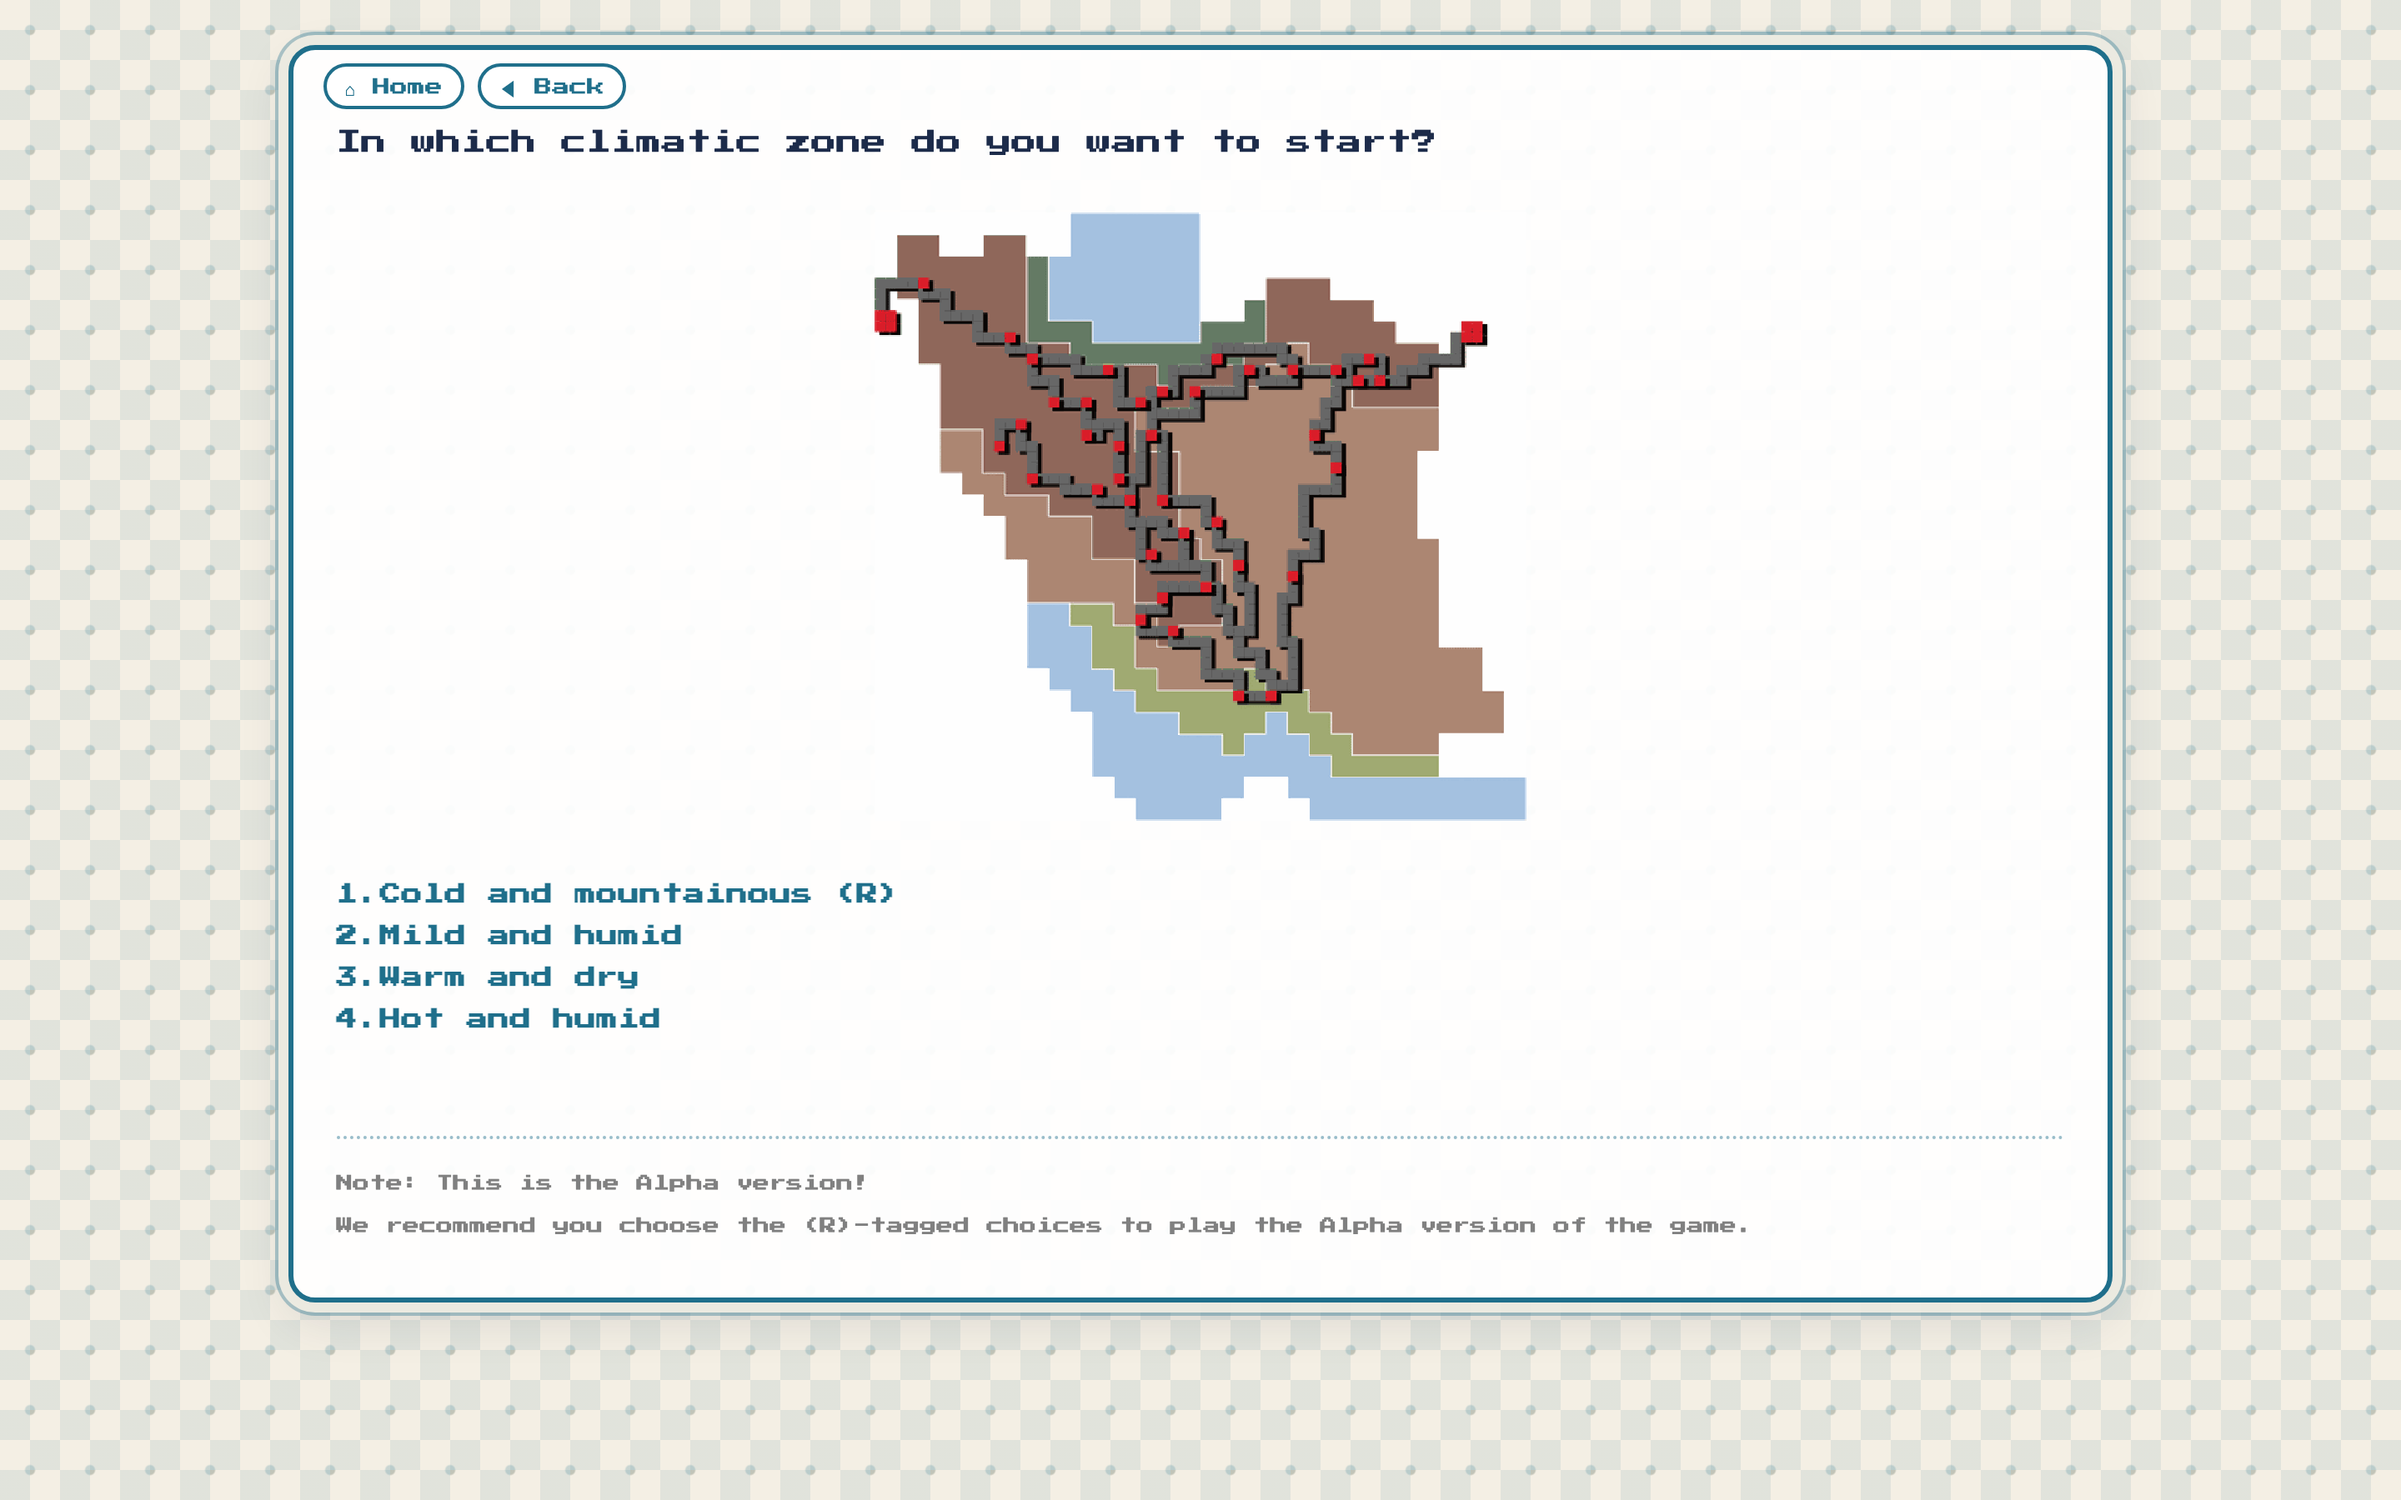
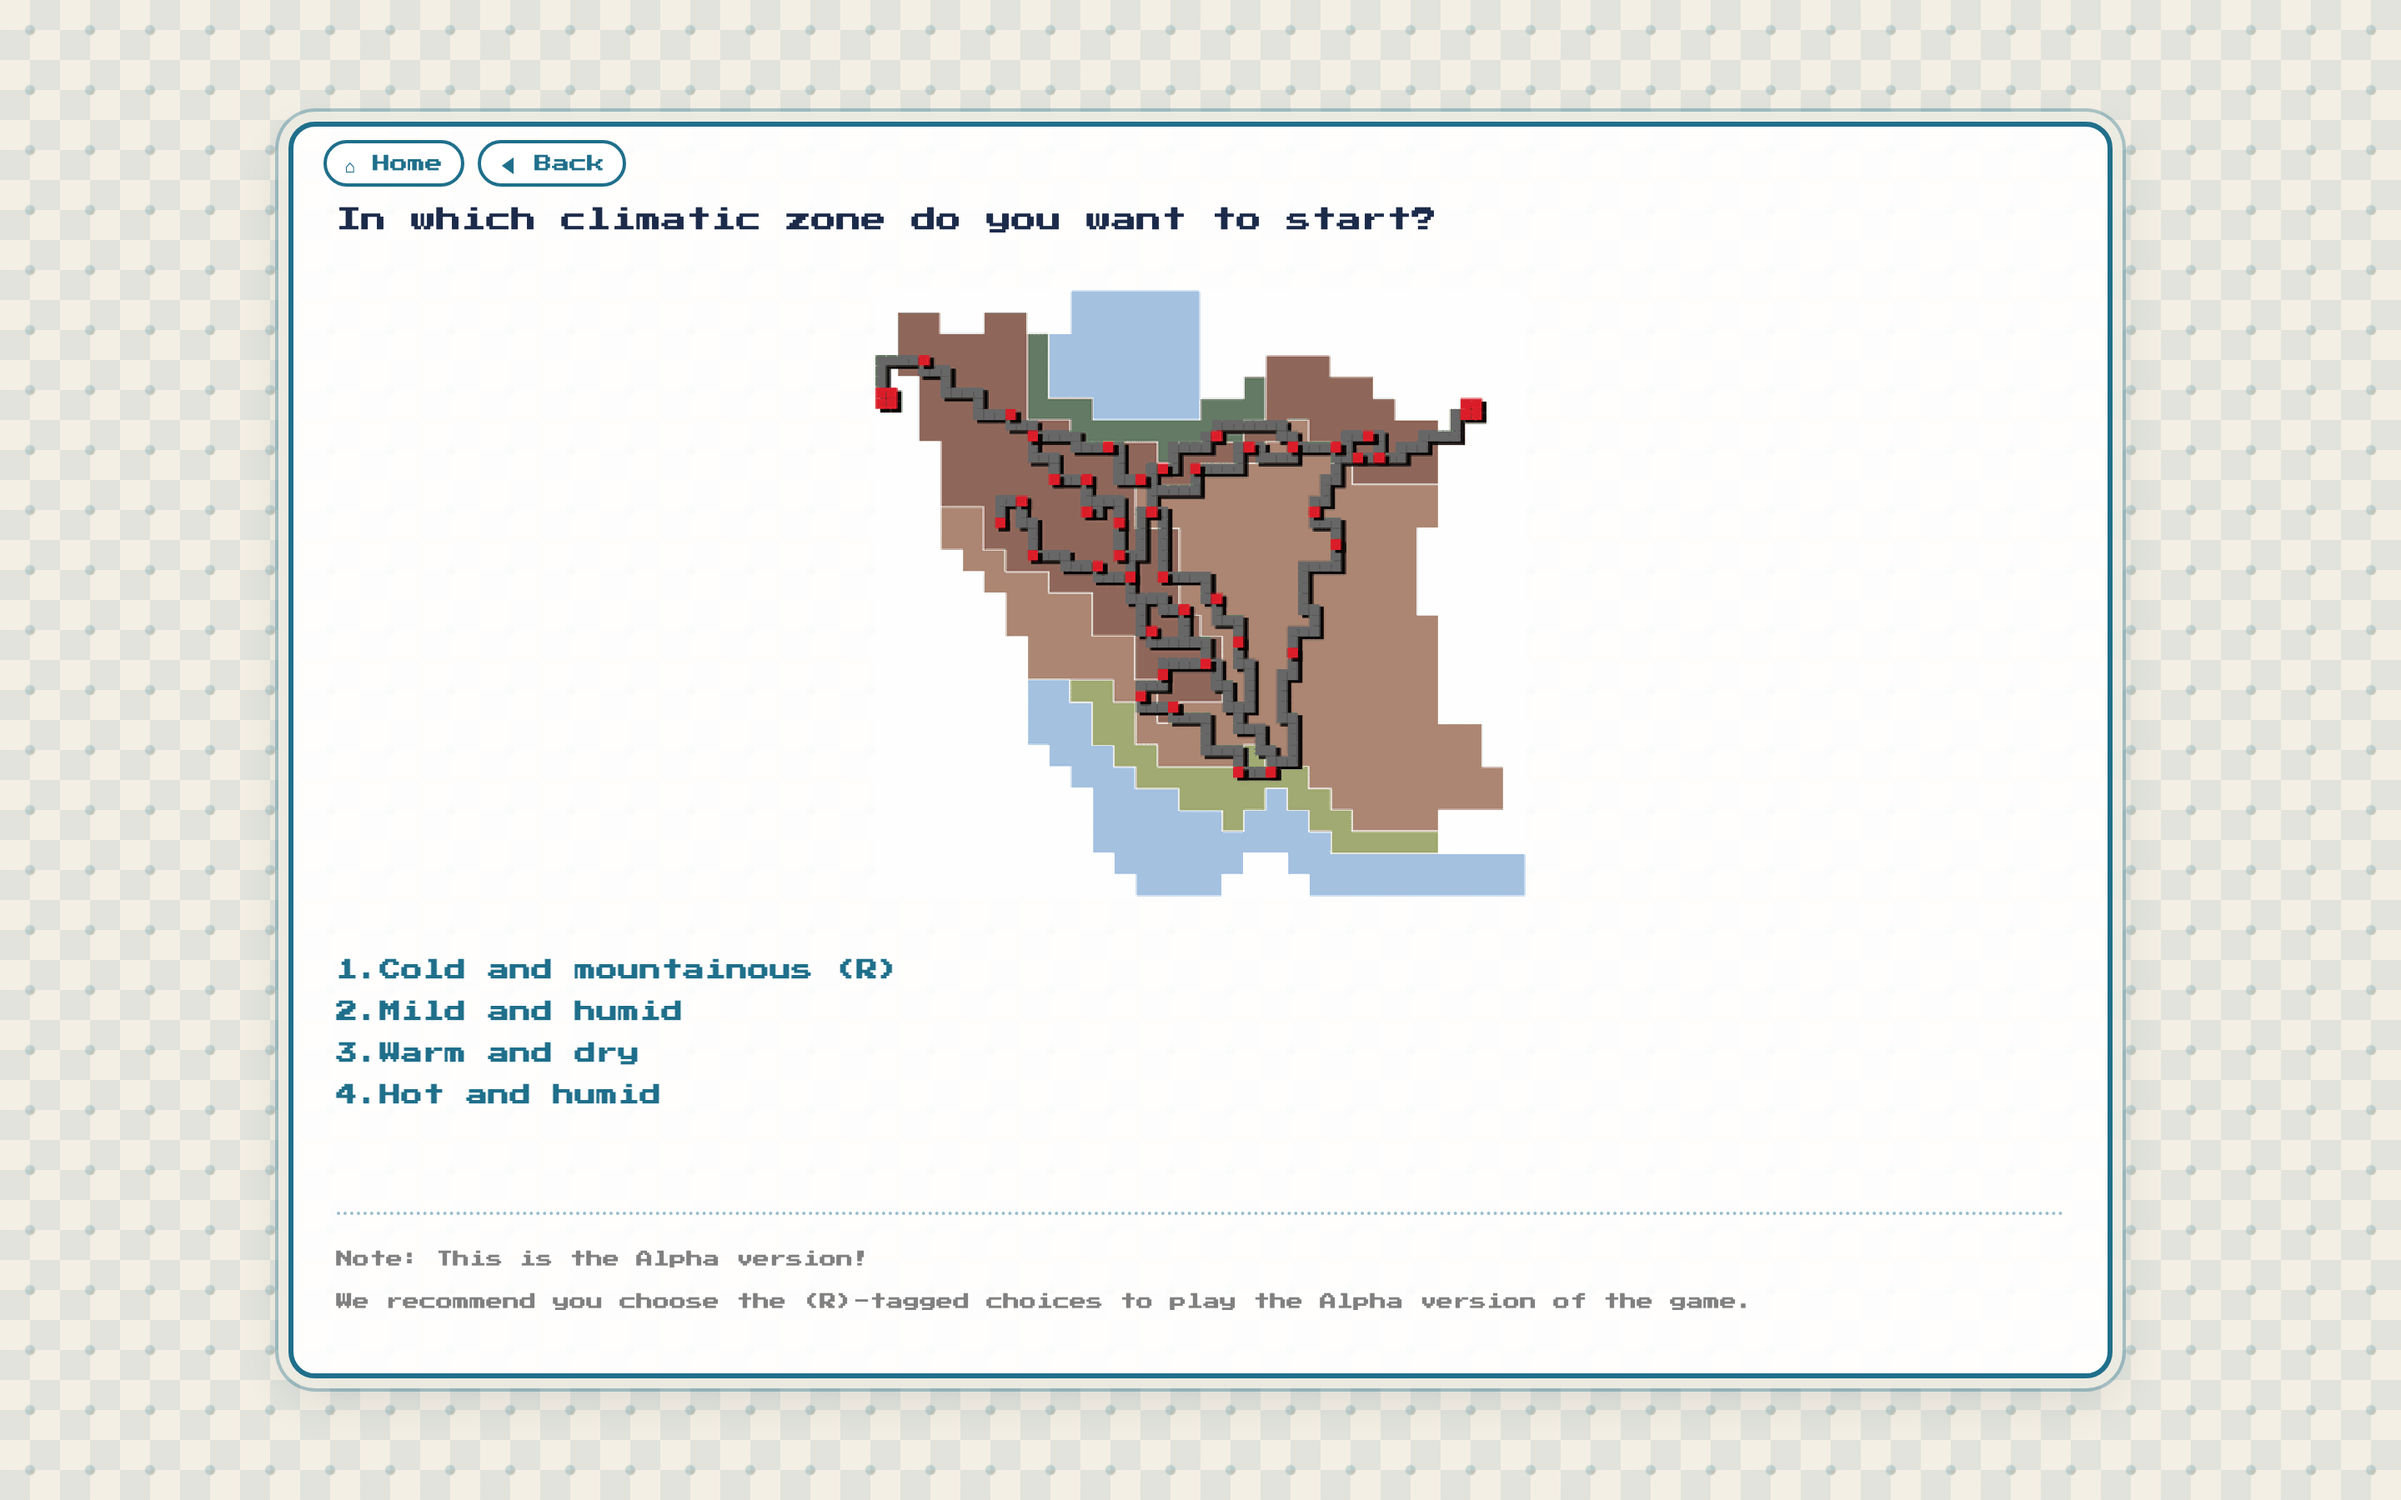
Portfolio images recaptured with the centred layout (phones and desktop no longer half empty)

Changed region(s): [[0.0938, 0.0, 0.9062, 0.6222], [0.0938, 0.7778, 0.9062, 0.9333], [0.125, 0.5911, 0.375, 0.7467]]

diff --git a/portfolio/_tools/frame.py b/portfolio/_tools/frame.py
@@ -100,8 +100,8 @@ def phone(shot, out, W=1080, H=1920):
     print(out, c.size, 'phone', (bw, bh), 'margins', x0, y0)
 
 
-#browser('desktop-01-climatic-zone-map.png', 'cover-1600x1000.png', 1600, 1000, 1220)
-#browser('desktop-02-season-choice.png', 'gallery-season-1200x750.png', 1200, 750, 915)
-#browser('desktop-04-map-yellow-point.png', 'gallery-journey-1200x750.png', 1200, 750, 915)
-#browser('desktop-05-ending-score.png', 'gallery-ending-1200x750.png', 1200, 750, 915)
-#phone('phone-01-season-choice.png', 'phone-1080x1920.png')
+browser('desktop-01-climatic-zone-map.png', 'cover-1600x1000.png', 1600, 1000, 1220)
+browser('desktop-02-season-choice.png', 'gallery-season-1200x750.png', 1200, 750, 915)
+browser('desktop-04-map-yellow-point.png', 'gallery-journey-1200x750.png', 1200, 750, 915)
+browser('desktop-05-ending-score.png', 'gallery-ending-1200x750.png', 1200, 750, 915)
+phone('phone-01-season-choice.png', 'phone-1080x1920.png')
